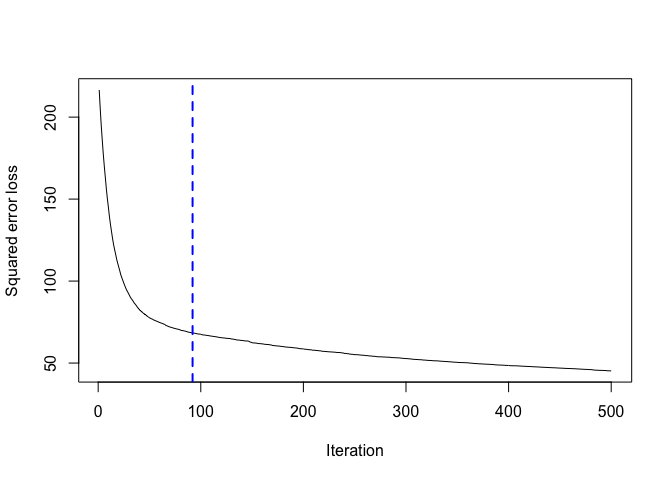
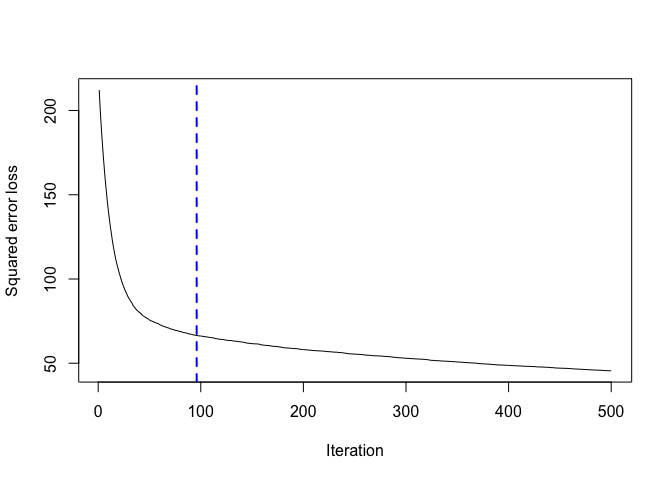
exercise3-1

diff --git a/exercise3-groupwork/exercise3-1/3-1.md b/exercise3-groupwork/exercise3-1/3-1.md
@@ -42,18 +42,17 @@ The best model - boosted regression trees
 -   First, we start with n.trees=500, which is a relatively large number
     of iterations.
 
-<!-- -->
-
-    ## Distribution not specified, assuming gaussian ...
-
 Notes: for the green certification, I use a single “green certified”
 category rather than considering LEED and EnergyStar separately; also,
 for the number of degree days, I use heating and cooling separately
 rather than using a total number.
 
+Looking at the error curve: stops decreasing much at somewhere between
+100-200.
+
 ![](3-1_files/figure-markdown_strict/unnamed-chunk-3-1.png)
 
-    ## [1] 92
+    ## [1] 96
     ## attr(,"smoother")
     ## Call:
     ## loess(formula = object$oobag.improve ~ x, enp.target = min(max(4, 
@@ -61,83 +60,76 @@ rather than using a total number.
     ## 
     ## Number of Observations: 500 
     ## Equivalent Number of Parameters: 39.85 
-    ## Residual Standard Error: 0.1099
-
-Looking at the error curve: stops decreasing much at somewhere between
-100-200.
+    ## Residual Standard Error: 0.09044
 
 -   Then we refit with a more suitable number of iterations:
     n.trees=200.
 
 <!-- -->
 
-    ## Distribution not specified, assuming gaussian ...
-
     ## gbm(formula = Rent ~ . - CS_PropertyID - LEED - Energystar - 
     ##     total_dd_07, data = green_train, n.trees = 200, interaction.depth = 4, 
     ##     shrinkage = 0.05)
     ## A gradient boosted model with gaussian loss function.
     ## 200 iterations were performed.
-    ## There were 18 predictors of which 18 had non-zero influence.
+    ## There were 18 predictors of which 16 had non-zero influence.
 
-![](3-1_files/figure-markdown_strict/unnamed-chunk-4-1.png)
+![](3-1_files/figure-markdown_strict/unnamed-chunk-5-1.png)
 
-    ## [1] 92
+    ## [1] 113
     ## attr(,"smoother")
     ## Call:
     ## loess(formula = object$oobag.improve ~ x, enp.target = min(max(4, 
     ##     length(x)/10), 50))
     ## 
-    ## Number of Observations: 500 
-    ## Equivalent Number of Parameters: 39.85 
-    ## Residual Standard Error: 0.1099
+    ## Number of Observations: 200 
+    ## Equivalent Number of Parameters: 16.06 
+    ## Residual Standard Error: 0.156
 
 -   Calculate the RMSE
-
-<!-- -->
-
-    ## [1] 8.139625
 
 As we can see the result, the RMSE is relatively low, which means the
 model works pretty good.
 
+    ## [1] 8.692981
+
 -   Relative importance measures: how much each variable reduces the MSE
-
-![](3-1_files/figure-markdown_strict/unnamed-chunk-6-1.png)
-
-    ##                                 var      rel.inf
-    ## cluster_rent           cluster_rent 68.484303669
-    ## size                           size 14.233531154
-    ## leasing_rate           leasing_rate  5.063689710
-    ## age                             age  2.902933056
-    ## hd_total07               hd_total07  2.701113641
-    ## stories                     stories  1.872088503
-    ## class_a                     class_a  1.307954069
-    ## cluster                     cluster  1.261554241
-    ## Electricity_Costs Electricity_Costs  0.789545758
-    ## cd_total_07             cd_total_07  0.626851873
-    ## Precipitation         Precipitation  0.215243284
-    ## class_b                     class_b  0.177764033
-    ## renovated                 renovated  0.138702421
-    ## amenities                 amenities  0.111627418
-    ## empl_gr                     empl_gr  0.043648203
-    ## green_rating           green_rating  0.039480955
-    ## Gas_Costs                 Gas_Costs  0.020883274
-    ## net                             net  0.009084738
 
 As we can see in the result, cluster rent and size are the most
 important factors.
+
+![](3-1_files/figure-markdown_strict/unnamed-chunk-7-1.png)
+
+    ##                                 var     rel.inf
+    ## cluster_rent           cluster_rent 71.17073776
+    ## size                           size 13.53533650
+    ## leasing_rate           leasing_rate  5.74012801
+    ## age                             age  3.05879064
+    ## stories                     stories  2.02300521
+    ## class_a                     class_a  1.28910586
+    ## cluster                     cluster  1.00309732
+    ## cd_total_07             cd_total_07  0.68523544
+    ## class_b                     class_b  0.39029323
+    ## Electricity_Costs Electricity_Costs  0.36576964
+    ## Precipitation         Precipitation  0.35811266
+    ## hd_total07               hd_total07  0.12837134
+    ## amenities                 amenities  0.09574291
+    ## renovated                 renovated  0.06396301
+    ## Gas_Costs                 Gas_Costs  0.05028124
+    ## green_rating           green_rating  0.04202923
+    ## empl_gr                     empl_gr  0.00000000
+    ## net                             net  0.00000000
 
 Average change in Rent associated with green certification
 ==========================================================
 
 -   Exploring the fit with partial dependence functions
 
-![](3-1_files/figure-markdown_strict/unnamed-chunk-7-1.png)
+![](3-1_files/figure-markdown_strict/unnamed-chunk-8-1.png)
 
     ##   green_rating     yhat
-    ## 1            0 28.57324
-    ## 2            1 28.60019
+    ## 1            0 28.48336
+    ## 2            1 28.66386
 
 As we can see in the result, the green certification don’t have a huge
 impact on rental income per square foot, having green certification
